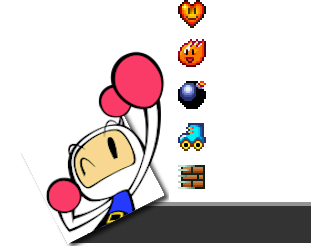
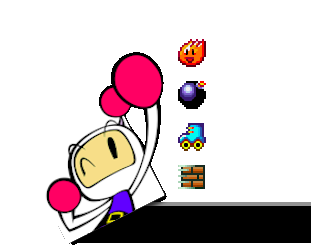
add squares to hide bonus in ui tile

diff --git a/sources/System/Lobby/LobbySystem.cpp b/sources/System/Lobby/LobbySystem.cpp
@@ -172,12 +172,24 @@ namespace BBM
 			std::string texturePath = "assets/player/ui/" + _colors[lobby.color] + ".png";
 			int x = (playerID % 2 == 0) ? 1920 - 10 - 320 : 10;
 			int y = playerID > 2 ? 1080 - 10 - 248 : 10;
-			scene->addEntity("player tile2")
+			scene->addEntity("player color tile")
 				.addComponent<PositionComponent>(x, y - 2, 0)
 				.addComponent<Drawable2DComponent, RAY2D::Rectangle>(x, y, 320, 248, _rayColors[lobby.color]);
-			scene->addEntity("player tile")
+			scene->addEntity("player ui tile")
 				.addComponent<PositionComponent>(x, y, 0)
 				.addComponent<Drawable2DComponent, RAY::Texture>(texturePath);
+			scene->addEntity("player hide fireup")
+				.addComponent<PositionComponent>(x + 172, y + 35, 0)
+				.addComponent<Drawable2DComponent, RAY2D::Rectangle>(x, y, 35, 35, _rayColors[lobby.color]);
+			scene->addEntity("player hide bombup")
+				.addComponent<PositionComponent>(x + 172, y + 77, 0)
+				.addComponent<Drawable2DComponent, RAY2D::Rectangle>(x, y, 35, 35, _rayColors[lobby.color]);
+			scene->addEntity("player hide speedup")
+				.addComponent<PositionComponent>(x + 172, y + 122, 0)
+				.addComponent<Drawable2DComponent, RAY2D::Rectangle>(x, y, 35, 35, _rayColors[lobby.color]);
+			scene->addEntity("player hide speedup")
+				.addComponent<PositionComponent>(x + 172, y + 161, 0)
+				.addComponent<Drawable2DComponent, RAY2D::Rectangle>(x, y, 35, 35, _rayColors[lobby.color]);
 			playerCount++;
 		}
 		Runner::gameState._loadedScenes[GameState::SceneID::GameScene] = scene;
